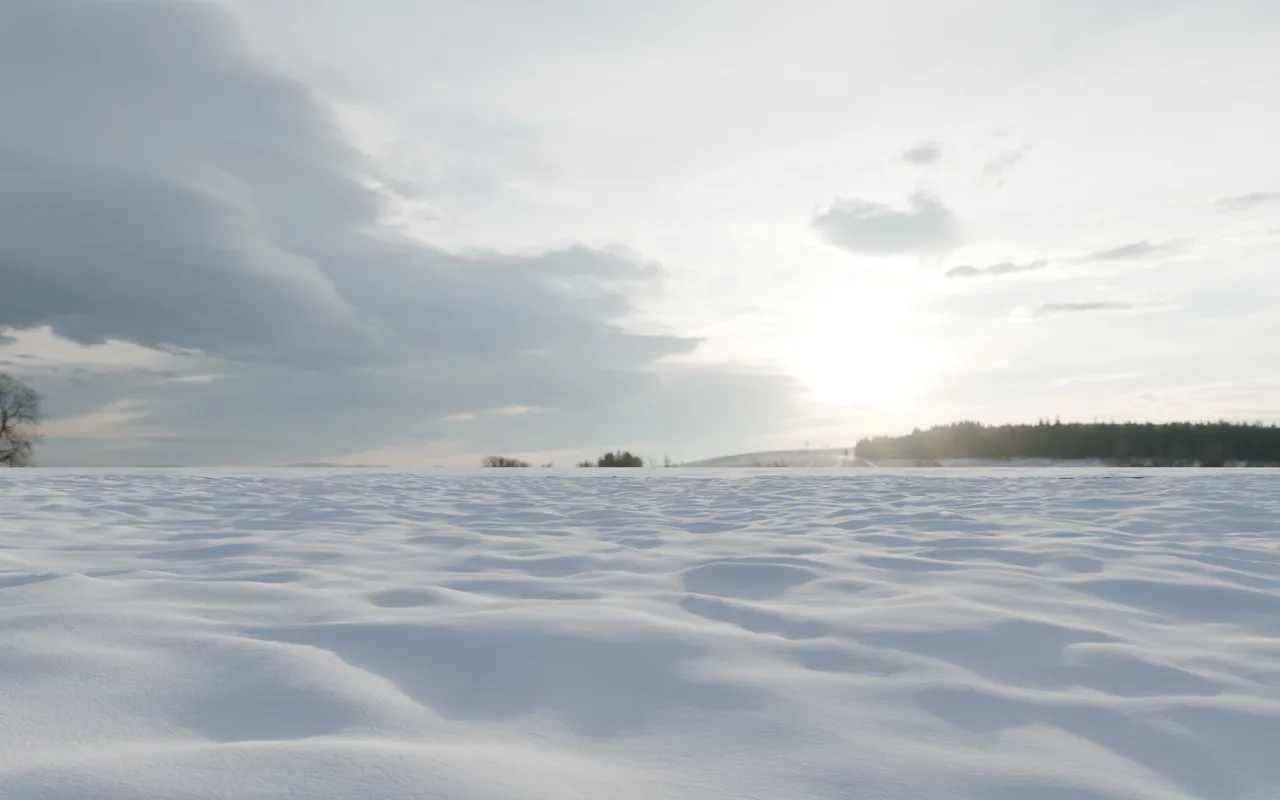
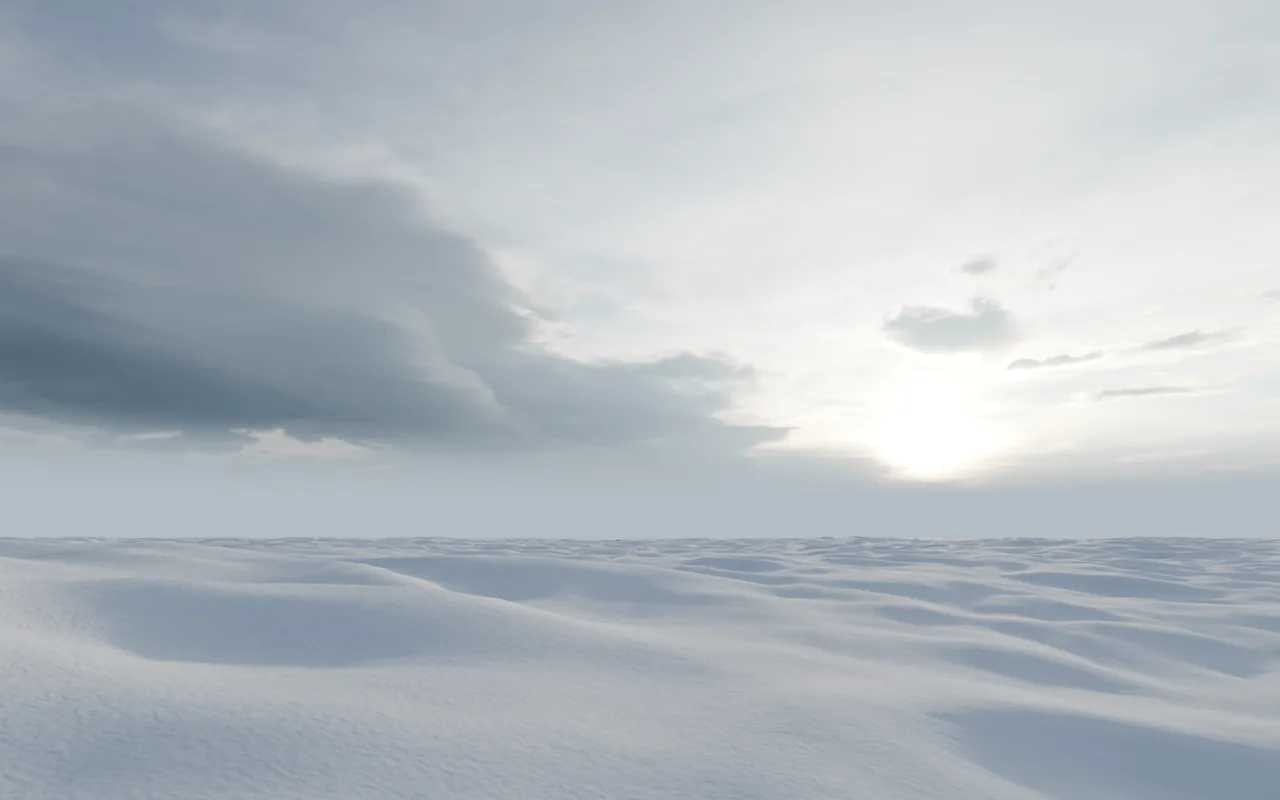
Final winter backdrop (camera A, clean horizon); install on an empty server
- winter backdrop rendered from the chosen low camera, the panorama's
  trees replaced by haze at the horizon
- axm-site.sh fresh: packages, the site, a certificate and the domain on
  the new site at once, for an empty Ubuntu 22.04/24.04 or Debian 12;
  refuses a server that already serves sites (install + switch there)
- INSTALL.md: the empty-server path

Checked in Ubuntu 24.04 (nginx 1.24, Python 3.12): fresh install, sign-in,
publish, every page and redirect, a lead, a foreign origin refused, a blog
comment and a like, panel assets, http to https, file modes.

Claude-Session: https://claude.ai/code/session_01XdotYG3XpYXeJcquxi5BNB

diff --git a/axiomantic/deploy/INSTALL.md b/axiomantic/deploy/INSTALL.md
@@ -15,6 +15,23 @@
 | токен Telegram (по желанию) | `/etc/axm-site/leads.env` (`600`, root) |
 | nginx | `snippets/axm-site.conf`, `sites-available/axm-site*.conf` |
 
+## Новый пустой сервер (Timeweb и т. п.)
+
+Ubuntu 22.04 / 24.04 или Debian 12, ничего больше не установлено.
+
+1. В DNS у регистратора поменять A-записи `axiomantic.ru` и `www.axiomantic.ru`
+   на адрес нового сервера и подождать, пока они обновятся (обычно до часа).
+2. Залить архив в `/root` и выполнить:
+
+```bash
+cd /root && tar xzf axm-site-bundle.tar.gz && cd axm-site-bundle
+./axm-site.sh fresh
+```
+
+Скрипт сам поставит nginx, Python и certbot, спросит логин владельца
+(пароль покажет один раз — не пересылайте его в чатах), получит сертификат и
+включит сайт. Затем `https://axiomantic.ru/admin/` → «Опубликовать».
+
 ## 1. Архив
 
 На своём компьютере (или здесь в репозитории): `axiomantic/deploy/bundle.sh`
